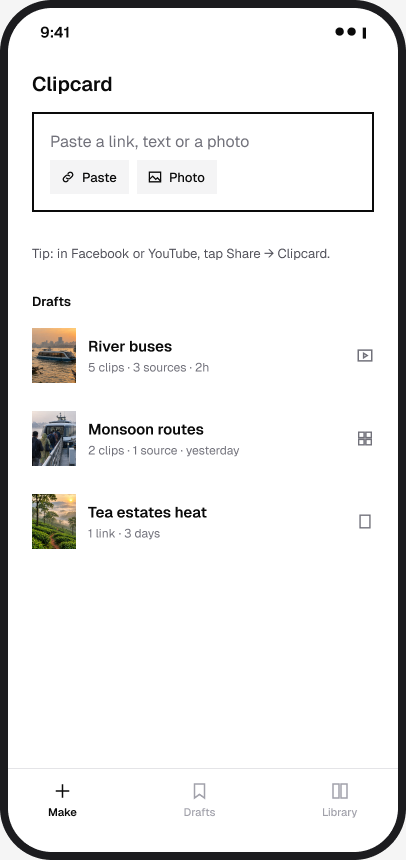
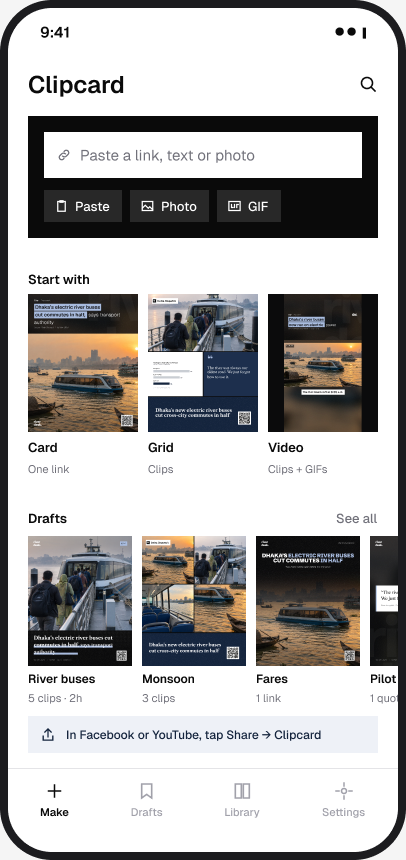
docs: adopt full web app and phone designs

diff --git a/docs/APP.md b/docs/APP.md
@@ -1,0 +1,51 @@
+# APP — the web app (`/app`) on desktop and phone
+
+The web app is the **whole product without an install**, not a lite version. Everything the extension can make, the web app can make; the only difference is how sources get in (paste, bookmark and share menu instead of right‑click and clip mode). Desktop and phone share the components in `packages/ui`. Only the layout changes.
+
+Visual truth: `design/webapp/W1`–`W4` (desktop, 1440×900) and `design/phone/A1`–`A8` (390×844). Figma pages "Web app (desktop)" and "Phone app (installable web app)" (node IDs in `design/figma.md`).
+
+## 1. Feature parity
+
+| Feature | Extension | Web app · desktop | Web app · phone |
+|---|---|---|---|
+| Card from a link | Right‑click → copied (M1) | Paste row + **bookmark** (one‑click) → W1 | Paste card, or **Share → Clipcard** from any app → A3 |
+| Edit card: template, key phrase, text colors, theme, format, mark, texture | Popup + text bar (P1, P2) | **Inspector** (W1) | **Card editor**: Text · Look · Sources panels (A5) |
+| Clips → grid | Clip mode on any site (K1) | Paste text/images/screenshots, bookmark with a selection → Grid mode | Paste, Photo, share images into Clipcard → A6 |
+| Video clip from YouTube/page video | Clip button + recording (Y1) | Bookmark on the video page (moment) or "Record tab" (prompt, R7) | Share a YouTube link → moment scene; record not available |
+| One video from many sources | Popup Video mode (P4) | **Timeline** + scene inspector (W2) | **Video editor** with timeline (A4) |
+| Library and GIFs | P5 | **W3** (masonry, selection panel) | **A7** |
+| Drafts | P6 | **W4** (grid of real thumbnails) | **A8** + Home row (A2) |
+| Batch / roundup | P7 | Paste several links (one per line) → Roundup / Carousel | Same, in the paste card |
+| Share | Copy, Download, platform links | Copy image, Download, Share menu, Save | **Native share sheet with the file**, Download, Save |
+
+## 2. Desktop layout (1440 wide; min 1024)
+
+- **Sidebar** 232: logo; **New** (ink, full width); nav Make · Drafts (count) · Library (count) · GIFs · Settings (selected row `#EDEDF0`); bottom card "One‑click from any page" with the draggable ✂ bookmark and "Get the extension →".
+- **Top bar** 56 over the work area: draft title (editable) + "Saved · just now" (mono); right side **Card · Grid · Video** segmented control and the **Auto chip**.
+- **Work area** (Make): the **Add source** row (820×44: link icon, "Paste a link, text or an image to add a source", chips Photo · GIF · Library); the **canvas** centered, at 520 px tall for 4:5 (scales with the window, never past 100%); below it a **template strip** (64×80 live thumbnails, Auto first and outlined).
+- **Inspector** 340 on the right, scrolling, actions pinned at the bottom:
+  - Card (W1): **Sources** (thumb, outlet, domain · date, QR icon; each source removable) · **Text** (headline box: click words to set the key phrase; Emphasis Box/Line/Color; Key color; Text color) · **Look** (Theme, Format, Your mark, Texture, Old‑news year) · actions **Copy image** · Download · Share · Save.
+  - Video (W2): **Scene · <kind>** (source, range, Fit/Fill) · **Captions** (on/off + the transcript lines for the range, editable) · **Reaction** (3 suggestions + Skip) · **Export** (format) · **Export MP4 · duration**.
+  - Grid: like Card plus **Layout** (Excerpts · Grid 3 · Grid 4 · Board) and the clip list (drag to reorder, × remove).
+- **Timeline** (W2, Video mode): under the canvas, 820 wide; play/time row; scene blocks proportional to duration with thumbnails and a label; the selected scene has a 2 px ink outline and white trim handles; red 2 px playhead; drag to reorder.
+- **Library · GIFs** (W3): the top bar becomes tabs Library · GIFs · This page, search (420), provider GIPHY · KLIPY; tag chips; a 5‑column masonry of looping previews; selection = 3 px ink inset + check; inspector shows the selection, "Save to Library", the attribution and **Add N to draft**.
+- **Drafts** (W4): filters All · Cards · Grids · Videos and "Kept 30 days · Export"; 216×270 real thumbnails with title, meta and a mode icon; a dashed **New draft** tile.
+- Keyboard: Ctrl+V anywhere adds a source; Ctrl+C copies the card; ←/→ cycle templates; Space plays the video; Delete removes the selected scene or clip.
+
+## 3. Phone layout (390 wide)
+
+- **Tab bar** (Home, Drafts, Library, Settings) on root screens; editors are full‑screen with a top bar (× · title + status · Auto chip) and a bottom **action bar** (primary 52 high + Download + Save, 34 px home‑indicator padding).
+- **A1 Install**: the landing page's bottom sheet (icon, "Install Clipcard", "Works offline · shows in your share menu", Not now / Install; iPhone hint).
+- **A2 Home**: "Clipcard" + search; **paste card** (ink: white input + Paste · Photo · GIF); **Start with** tiles Card · Grid · Video (real thumbnails, one‑line explanations); **Drafts** row (104×130 thumbnails, scrolls) + See all; a share‑menu tip.
+- **A3 Shared into Clipcard**: opens straight from another app's share sheet; edge‑to‑edge preview; mode + Auto chip; a hint when no photo came with the link; **Share**.
+- **A5 Card editor**: preview (300 wide on `#F4F4F5`), template strip (48×60, Auto first), panel tabs **Text · Look · Sources** with the mode switch on the right; the Text panel has the headline box (tap words for the key phrase), Box/Line/Color and the color dots; Look = theme, format, mark, texture; Sources = links and QRs.
+- **A6 Grid**: layout chips; clips strip (64×64, drag to reorder, dashed +); add from Paste · Photo · GIF · Library; mode switch.
+- **A4 Video editor**: dark preview; a proportional timeline with trim handles and playhead; time row; mode + Captions; **Add a reaction?** (3 GIFs + Skip); **Export · duration**.
+- **A7 Library · GIFs**: Library/GIFs + GIPHY/KLIPY toggles, search, tag chips, a 2‑column masonry with multi‑select, a bottom bar with the attribution + **Add N**.
+- **A8 Drafts**: big title + count, filter chips, a 2‑column grid of real thumbnails with a mode badge.
+- Touch targets ≥ 44 px. Bottom sheets for menus (format, theme, share). Haptics on Copy/Share where supported.
+
+## 4. Responsive rules
+
+- ≥ 1024: the desktop layout. 768–1023: the sidebar collapses to icons (64), the inspector becomes a 320 drawer toggled from the top bar. < 768: the phone layout.
+- The same draft opens in every layout; mode, overrides and scene order are stored on the draft.

diff --git a/docs/DESIGN.md b/docs/DESIGN.md
@@ -28,8 +28,8 @@ Learned from the news pages our users follow (Nutshell News, Cablgram, The Noise
 | Library · GIFs | Opens in the popup from any **+**. Tabs Library · GIFs · This page (13 px; active = 600 weight + 28×2 ink underline) and a close ×. Search field (36 high). Provider chips GIPHY · KLIPY (mono 11). Results in 3 columns of square tiles, gap 4, looping MP4 previews, a GIF/MP4 badge, selection = 3 px ink inset + check. Footer: the required attribution ("Powered by GIPHY" while GIPHY results show) on the left + **Add N** on the right. | `P5-library-gifs.png` |
 | Drafts | Toolbar click when nothing is selected. Head "Drafts · 3". Rows: 36×45 thumb, title (first headline, editable), "5 clips · 3 sources · 2h", output‑mode icon. Actions: **Card from this page** (primary) + **＋ Draft** (adds this page to the open draft). | `P6-drafts.png` |
 | Batch | From a drag‑select over links, "Cards from open tabs", or pasting a list. Output chips: **Carousel · N**, **Roundup**, **Digest video** (auto‑picked: ≤ 4 links → Roundup, 5–10 → Carousel, any video link → Digest video). Link list with checkboxes (title + domain mono). Primary *Copy* (carousel → numbered PNGs, zipped for download). | `P7-batch-links.png` |
-| **Web app** (`/app`) | Full page: app bar (Clipcard · Make · Drafts · Library · "Get the one‑click bookmark" outline · "Get the extension" ink). Left column (520): "Make a card or video", the **paste box** (2 px ink border when focused; "Paste a link, copied article text, or an image · Ctrl+V · or drop files"), a tip line, then drafts. Right: the same popup component, without the close button. | `P9-web-app.png` |
-| **Phone app** (installed web app) | 390 wide. **Home**: paste box with [Paste] [Photo], a share‑menu tip, drafts, and a tab bar Make · Drafts · Library. **Shared into Clipcard**: top bar × · "From Facebook" · save; the preview edge to edge; mode + Auto chip; "No photo came with the link: tap to add one" when needed; **Share** (native share sheet with the file) + Download + Save. **Video**: the preview fills the screen above a bottom sheet with scenes, "Add a reaction?" and Export. **Install**: the landing page's bottom sheet with an icon, "Install Clipcard", Not now / Install, and the iPhone hint. | `design/phone/A1-install.png` … `A4-video.png` |
+| **Web app** (`/app`), desktop | A full workspace: sidebar (New · Make · Drafts · Library · GIFs · Settings · bookmark card), top bar (title · Card/Grid/Video · Auto chip), Add source row, canvas + template strip, **inspector** (Sources · Text · Look · actions); Video mode adds a **timeline**. Full spec: `docs/APP.md` §2. | `design/webapp/W1`–`W4` |
+| **Phone app** (installed web app) | Home with a paste card, Start tiles and drafts; full Card editor (Text · Look · Sources), Grid, Video editor with timeline, Library · GIFs, Drafts; shared‑into flow; install sheet. Full spec: `docs/APP.md` §3. | `design/phone/A1`–`A8` |
 | Copied toast | Shadow DOM, fixed 12 px from the top right. Ink, radius 6, padding 10: 64×80 thumb · ✓ Copied · [Share] [Edit] [×] · 2 px auto‑dismiss bar (6 s, pauses on hover). After an image copy, the toast's second line offers **Copy link for the comment** (the clean URL), because many pages post the link in the first comment. | `M1-one-click-copied.png` |
 | Clip tray | Shadow DOM, top right 12 px. Dark capsule `#1C1C1F`, 8 px padding: stacked thumbs (40×52, 22 px overlap) · "3 clips / 2 sources" · **Card** (outline) · **Video →** (white) · ×. Hidden while the popup is open. | `K1-clip-mode.png`, `Y1-video-clip.png` |
 | Clip mode | Hover outline: 2 px ink, 3% ink fill, with a kind tag (Text / Image / Section) on its top‑right corner. Clipped items get a 28×28 ink ✓ badge. Drag a rectangle for a region. Esc exits. Pill "● Clipping · Done" at the top right, under the tray. | `K1-clip-mode.png` |

diff --git a/design/figma.md b/design/figma.md
@@ -7,11 +7,12 @@ File: https://www.figma.com/design/ltOBCjRg2TFkH8hVaJsezU/Untitled
 | Card Templates | v2 card components | Header `57:37` · Split `57:60` · Caps `57:630` · Overlay `57:711` · Quote `65:41` · Duotone `65:57` · Duotone 1:1 `65:69` · Solid `65:81` · Header 9:16 `65:1405` · Header বাংলা `65:1429` · Header हिन्दी `65:1463` · Split 16:9 `65:1497` · Split اردو RTL `65:1973` · Roundup `70:67` |
 | Clips | Clip layouts + clip mode | Excerpts `51:49` · Grid 4 `51:73` · Grid 3 `51:87` · Board `51:100` · chart sample `51:36` · K1 `52:52` · K2a `55:257` · K2b `55:283` |
 | Video & Library | 9:16 scenes + video clip | Scene/Clip `60:39` · Scene/Excerpt `60:66` · Scene/Reaction `60:82` · Scene/Sources `60:91` · Y1 `63:38` |
-| Popup · all workflows | The one popup | M1 toast `36:1094` · P1 `67:681` · P2 `67:863` · P3 `67:1072` · P4 `67:1278` · P5 `67:1485` · P6 `67:1646` · P7 `70:758` · P8 Lite `74:1450` · P9 Web app `77:909` |
-| Phone app (installable web app) | Phone screens | A1 install `80:65` · A2 home `80:96` · A3 shared into Clipcard `80:156` · A4 video `80:225` |
+| Popup · all workflows | The one popup | M1 toast `36:1094` · P1 `67:681` · P2 `67:863` · P3 `67:1072` · P4 `67:1278` · P5 `67:1485` · P6 `67:1646` · P7 `70:758` · P8 Lite `74:1450` |
+| Web app (desktop) | Full workspace | W1 Make·Card `83:58` · W2 Make·Video `83:472` · W3 Library·GIFs `83:732` · W4 Drafts `83:909` |
+| Phone app (installable web app) | Phone screens | A1 install `80:65` · A2 home `84:320` · A3 shared `80:156` · A4 video `84:884` · A5 card editor `84:565` · A6 grid `84:788` · A7 library·GIFs `84:993` · A8 drafts `84:1044` |
 | Entry Points | Context menu, hover, selection, toolbar, paste | E1 `10:131` · E2 `11:172` · E3 `11:270` · E4 `11:291` · E5 `11:368` · Browser chrome `10:2` |
 | Onboarding & Settings | Welcome, settings | O1 `25:5` · O2 `25:178` |
 | Landing | Desktop, mobile | Desktop `26:3` (Features `69:7177`) · Mobile `28:223` |
 | _Assets | Images, icons, QR, brand | img/cat-reaction `60:37` |
 
-Exports: `design/cards/*.png` (true size), `design/scenes/*.png` (1080×1920), `design/screens/*.png`, `design/phone/*.png`. Superseded v1 exports live in `design/_superseded/` for reference only; don't build from them.
+Exports: `design/cards/*.png` (true size), `design/scenes/*.png` (1080×1920), `design/screens/*.png`, `design/webapp/*.png`, `design/phone/*.png`. Superseded v1 exports live in `design/_superseded/` for reference only; don't build from them.

diff --git a/handover/R1-lite.md b/handover/R1-lite.md
@@ -6,7 +6,7 @@
 - **M1 core, page‑side parts** (`01-core.md`): `cleanUrl`, `unwrapUrl`, `extract(doc)`, `cleanTitle`, `detectScript`, `textFragment`; plus `keyphrase.ts` (`10-cards-v2.md` step 3). Skip `resolveUrl` and fetching (Lite reads the page it's on).
 - **M2 + M10 cards** (`02-cards.md`, `10-cards-v2.md`), **cut to**: Header, Split, Overlay, Solid, Quote; formats 4:5, 1:1, 9:16; Latin fonts only; the full texture system, emphasis styles, text colors, contrast guard, QR, old‑news chip, meta line. Your mark comes later (R4); keep the slot empty.
 - **Popup components, Card mode only** (`11-popup.md` steps 2–4, as a shared React package `packages/ui` used by Lite now and the extension in R2). Auto chip overrides: theme, format, template. Text bar.
-- **Web app at `/app/`** (`16-lite.md` steps 1–6, ARCH §18, `P9-web-app.png`, `design/phone/A1`–`A3`): paste flows (URL slug headline, copied HTML, images, "Add a photo"), the bookmark (desktop one‑click) + its window, handshake + validation, image fallback chain, **PWA install + offline + Android share target**, phone layout (Home, Shared into Clipcard). History of the last 30 cards in IndexedDB (full drafts arrive in R3).
+- **Web app at `/app/`** (`16-lite.md` steps 1–6, ARCH §18, **`docs/APP.md`**, `design/webapp/W1-make-card.png`, `W4-drafts.png`, `design/phone/A1`–`A3`, `A5`, `A8`): paste flows (URL slug headline, copied HTML, images, "Add a photo"), the bookmark (desktop one‑click) + its window, handshake + validation, image fallback chain, **PWA install + offline + Android share target**, the desktop workspace in **Card mode** (sidebar, top bar, Add source, canvas + template strip, inspector; Grid/Video mode buttons hidden until R3/R6) and the phone layout (Home, Shared into Clipcard, Card editor, Drafts). History of the last 30 cards in IndexedDB (full drafts arrive in R3).
 - **Landing** (LANDING §3 row 2, §3.2): the hero **app shortcut**: a paste bar whose Make card works in place (it shares the `/app` code via `packages/ui`); paths ✂ bookmark · Open full app; nav "Web app"; mobile **Install the app** (`beforeinstallprompt`) + iPhone hint; the No‑install block; live CardDemo (`08-landing.md` step 7); "One‑click cards" tile → live. Set `RELEASED.app`, `RELEASED.pwa`, `RELEASED.cards`, `RELEASED.lite`.
 
 ## Lanes

diff --git a/handover/16-lite.md b/handover/16-lite.md
@@ -6,10 +6,10 @@
 
 ## Read first
 - `docs/PRD.md` F12 · `docs/ARCHITECTURE.md` §18 · `docs/LANDING.md` §3 row 4 (no‑install block)
-- **Visual truth:** `design/screens/P8-lite-bookmark.png`, `L1-landing-desktop.png` (Install section)
+- **Visual truth:** `design/webapp/*`, `design/phone/*`, `design/screens/P8-lite-bookmark.png`, `L1-landing-desktop.png` (Install section)
 
 ## Build
-1. `apps/lite`: Vite + React page at **`/app/`** (Vite `base: '/app/'`), usable on its own (`P9-web-app.png`): app bar, paste box (URL / copied HTML / image / drop / Photo), drafts; phone layout per `design/phone/A2`–`A3`. It also works as the bookmark window hosting the same popup components (Card · Grid · Video, Auto chip, text bar, drafts, Library · GIFs). Window bar label "Clipcard" + a "Saved in this browser · no install" note at the bottom.
+1. `apps/lite`: Vite + React page at **`/app/`** (Vite `base: '/app/'`), usable on its own, built to **`docs/APP.md`** (desktop workspace `design/webapp/W1`–`W4`, phone `design/phone/A1`–`A8`). Paste/drop/Photo inputs feed the Add source row. It also works as the bookmark window hosting the same popup components (Card · Grid · Video, Auto chip, text bar, drafts, Library · GIFs). Window bar label "Clipcard" + a "Saved in this browser · no install" note at the bottom.
 2. `bookmarklet.ts` → a `javascript:` URL under 4 KB (minified IIFE): reads metadata, the selection, image candidates and the video moment; opens or reuses the named window; posts the payload after `ready`.
 3. Handshake + validation (origin, schema with zod, length limits, URL sanitizing).
 4. Image fallback chain (CORS fetch → bookmarklet frame → Solid + paste/drop).

diff --git a/docs/PRD.md b/docs/PRD.md
@@ -83,8 +83,8 @@ As v1, plus: **Your mark** (upload), GIF provider (GIPHY · KLIPY · Off), Draft
 ### F11 — Your mark
 Settings → upload SVG/PNG. It's placed on every card and video (DESIGN §4.1) and used as the oversized pattern. Without a mark, no slot or pattern is shown.
 
-### F12 — Web app (no install) · `P9-web-app.png`, `P8-lite-bookmark.png`, `design/phone/*`
-- **`/app`**: the full Clipcard (Card · Grid · Video, drafts, Library · GIFs) in any browser, reachable from the landing hero, the nav and every "no install" link. Drafts, Library and the GIF cache live in that browser (IndexedDB + OPFS).
+### F12 — Web app (no install) · `design/webapp/*`, `design/phone/*`, `P8-lite-bookmark.png` · screen spec `docs/APP.md`
+- **`/app`**: the full Clipcard (Card · Grid · Video, drafts, Library · GIFs) in any browser, at the same depth as the extension (parity table: `docs/APP.md` §1), reachable from the landing hero, the nav and every "no install" link. Drafts, Library and the GIF cache live in that browser (IndexedDB + OPFS).
 - **Input without the extension**: paste a link, copied article text (with its HTML), or an image (Ctrl+V, drop, or Photo). A browser page can't read other websites by itself, so:
   - URL only → the headline comes from the URL slug (editable), the outlet from the domain, and the QR from the cleaned URL. The photo is Solid until the user adds one ("Add a photo" picks a file or pastes a screenshot). YouTube links use the public thumbnail where the site allows it.
   - Copied article (text/html on the clipboard) → the first heading becomes the headline and the first image is fetched where CORS allows, else the user adds one.

diff --git a/handover/UPDATE-2026-11-20-web-app.md b/handover/UPDATE-2026-11-20-web-app.md
@@ -21,3 +21,13 @@
 
 ## Files updated
 `docs/PRD.md` F12 · `docs/ARCHITECTURE.md` §18 · `docs/DESIGN.md` §2 · `docs/LANDING.md` §3, §3.2 · `docs/ROADMAP.md` · `docs/QA.md` · `docs/DECISIONS.md` · `handover/R1-lite.md` · `handover/R7-batch-mobile.md` · `handover/16-lite.md` · `design/figma.md` · new PNGs in `design/screens/` and `design/phone/`.
+
+## Addendum (16:50) · Full web app and phone designs
+
+The earlier `P9-web-app.png` was too thin to build from and is retired (`design/_superseded/`). The web app is the **whole product**, specified screen by screen in **`docs/APP.md`**:
+
+- Desktop workspace: `design/webapp/W1-make-card.png` (sidebar, top bar, Add source, canvas + templates, inspector), `W2-make-video.png` (timeline), `W3-library-gifs.png`, `W4-drafts.png`.
+- Phone: `design/phone/A1`–`A8` (install, home, shared‑into, video editor, card editor, grid, Library · GIFs, drafts).
+- `docs/APP.md` §1 maps every extension feature to its web‑app screen; §4 has the responsive breakpoints.
+
+Impact: **R0 none.** R1 builds the Card‑mode workspace on desktop and Home / Shared / Card editor / Drafts on the phone (the R1 prompt is updated). R3 adds Grid; R6 adds Video and Library · GIFs.

diff --git a/handover/R6-video-gifs.md b/handover/R6-video-gifs.md
@@ -8,6 +8,8 @@
 - **Lite**: Video mode + export in the Lite window (the same renderer), GIFs and Library.
 - **Landing**: "One video, many sources" and "Library and GIFs" tiles live.
 
+- **Web app**: Video mode with the timeline (`design/webapp/W2-make-video.png`, `design/phone/A4-video.png`) and Library · GIFs (`W3`, `A7`).
+
 ## Done when
 - [ ] e2e: 2 clips + 1 excerpt + 1 GIF → MP4 that plays in Chrome and VLC; Sources QRs decode.
 - [ ] GIF attribution visible; works with KLIPY only when there's no GIPHY key.

diff --git a/handover/R3-clips-drafts.md b/handover/R3-clips-drafts.md
@@ -10,6 +10,8 @@
 - **Landing**: "Clips and grids" and "Drafts" tiles → live.
 - **Owner**: apply for GIPHY and KLIPY keys now.
 
+- **Web app**: Grid mode on desktop (inspector Layout + clip list) and phone (`design/phone/A6-grid.png`); Drafts W4/A8 with filters.
+
 ## Done when
 - [ ] e2e: clip on page A, restart the browser, add from page B → the draft holds both; Board card copies with per‑source QRs.
 - [ ] Lite: three clicks on three pages with selections → one Excerpts card.

diff --git a/AGENTS.md b/AGENTS.md
@@ -67,6 +67,7 @@ Work arrives as **release prompts** (`handover/R*.md`, plan in `docs/ROADMAP.md`
 | Card geometry per template/format | `docs/DESIGN.md` §Cards |
 | Extension internals, permissions, clipboard path | `docs/ARCHITECTURE.md` |
 | Languages, fonts, RTL, store titles | `docs/I18N.md` |
+| Web app and phone app screens (`/app`) | `docs/APP.md`, `design/webapp/`, `design/phone/` |
 | Landing page + SEO | `docs/LANDING.md` |
 | Test matrix | `docs/QA.md` |
 
